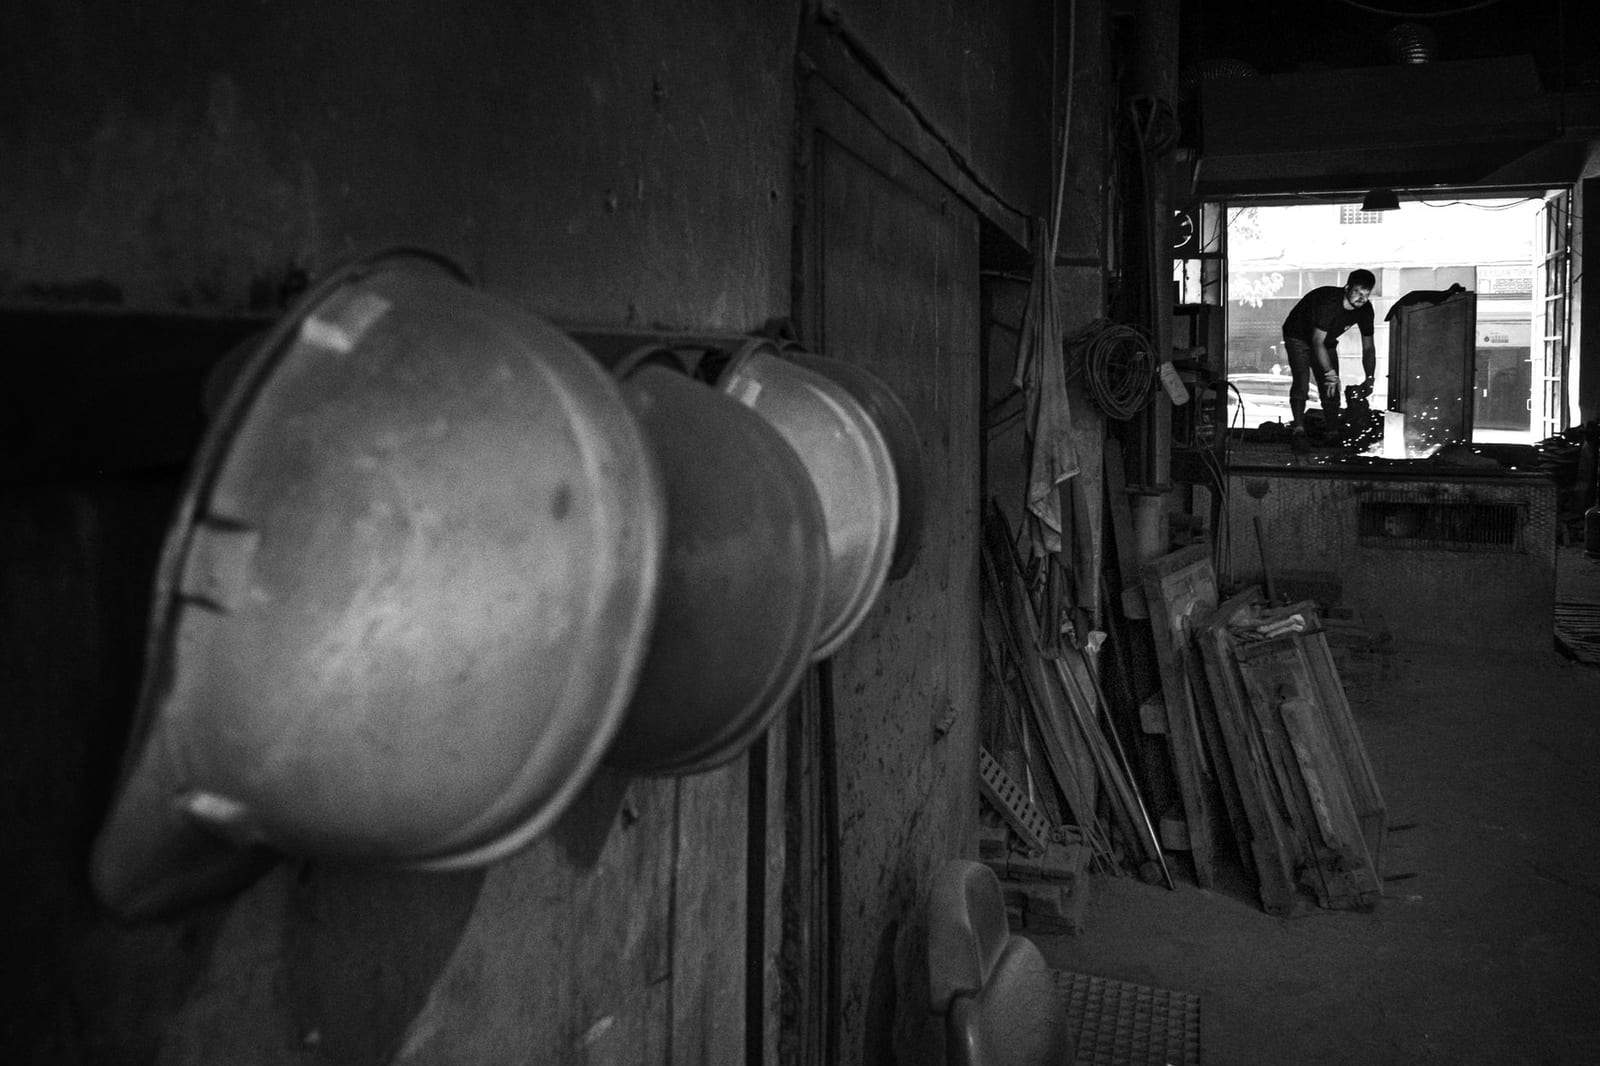
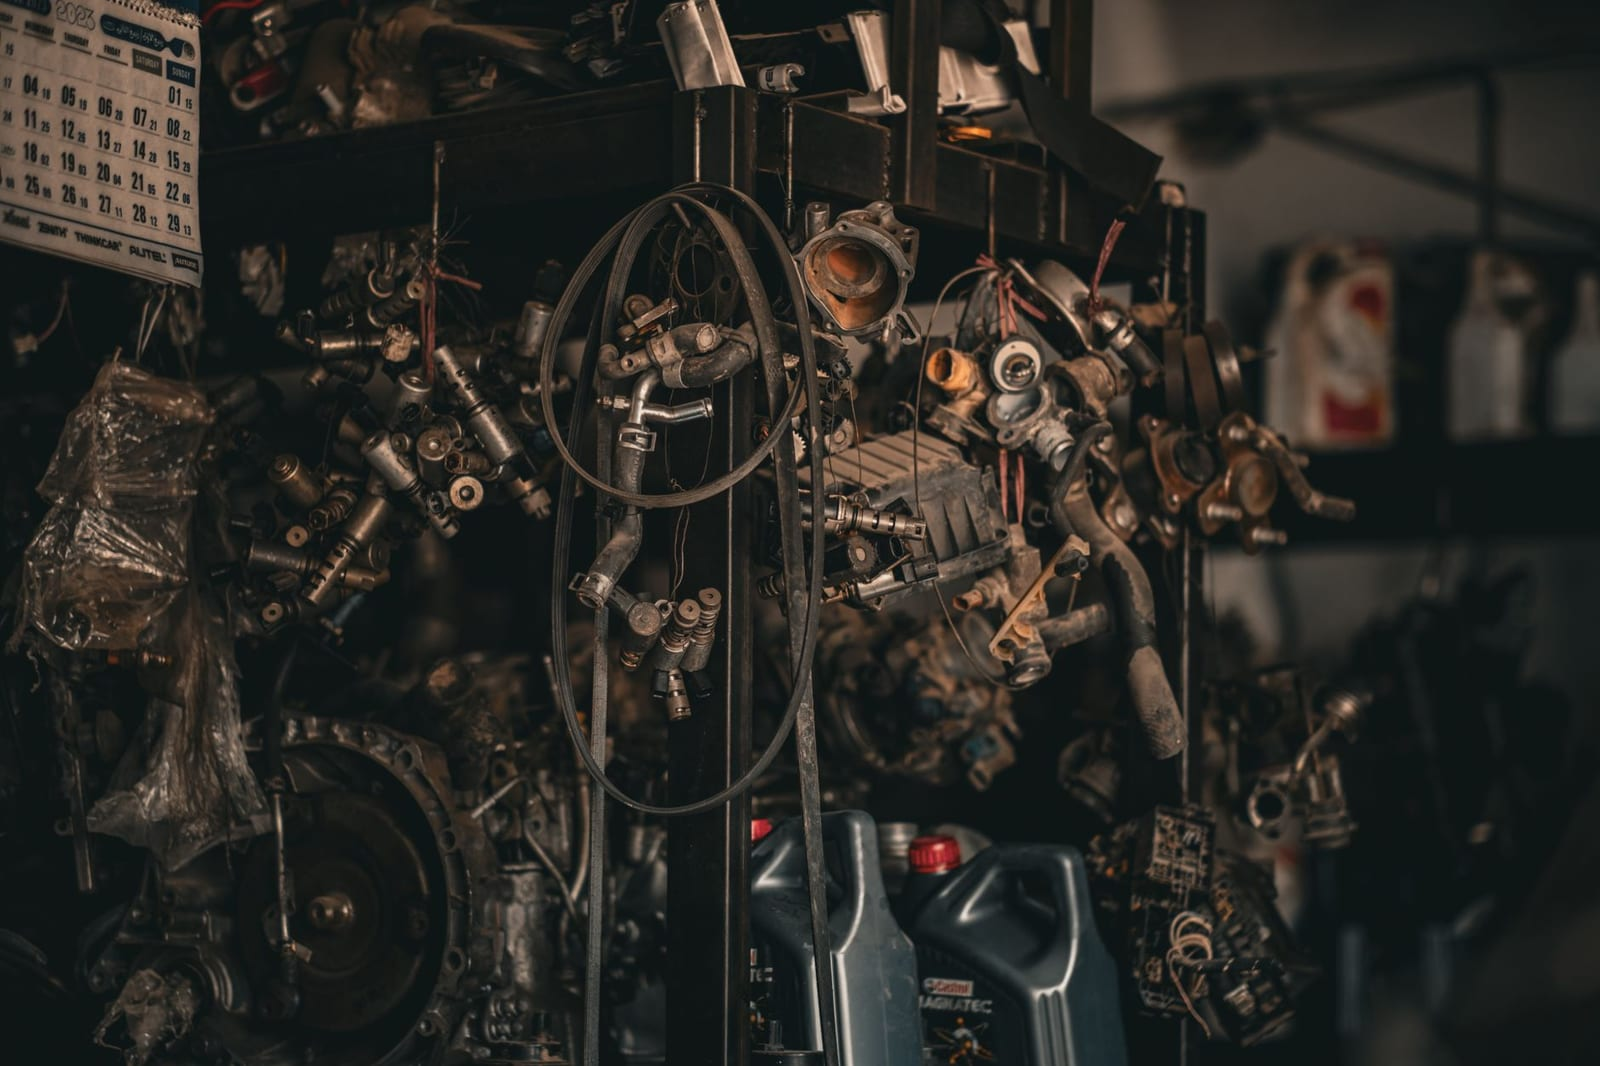
stock swap: replace refused frame certifiedautomotivenorthmyrtlebeachhorrysc/assets/photo-card-about.jpg
seat-stock-swap-door batch remediation 2026-09-12: live exposure of a MINOR-SCREEN-EYES-REFUSED.txt frame, found by a git-HEAD-verified corpus scan run while building this door.

swapped-by: seat-stock-swap-door

diff --git a/certifiedautomotivenorthmyrtlebeachhorrysc/index.html b/certifiedautomotivenorthmyrtlebeachhorrysc/index.html
@@ -197,7 +197,7 @@ color:#f5f5f0;font:500 14px/1.4 Inter,system-ui,sans-serif;background:linear-gra
     
         <div class="svc" style="margin-top:34px">
       <a class="card card-photo" href="about.html" style="color:inherit;text-decoration:none;display:block">
-        <div class="card-shot"><button type="button" class="v-lb-btn" data-v-lb data-v-lb-src="assets/photo-card-about.jpg?v=harv20260903060342" data-v-lb-alt="Black and white industrial workshop scene" aria-label="Black and white industrial workshop scene - Open photo"><img src="assets/photo-card-about.jpg?v=harv20260903060342" alt="Black and white industrial workshop scene" loading="lazy"></button></div>
+        <div class="card-shot"><button type="button" class="v-lb-btn" data-v-lb data-v-lb-src="assets/photo-card-about.jpg?v=stockswap20260912192756" data-v-lb-alt="Busy automobile workshop mechanics at work in a garage" aria-label="Black and white industrial workshop scene - Open photo"><img src="assets/photo-card-about.jpg?v=stockswap20260912192756" alt="Busy automobile workshop mechanics at work in a garage" loading="lazy"></button></div>
         <h3>About us</h3>
         <p>Who you are calling, and the work we do in North Myrtle Beach.</p>
       </a>
